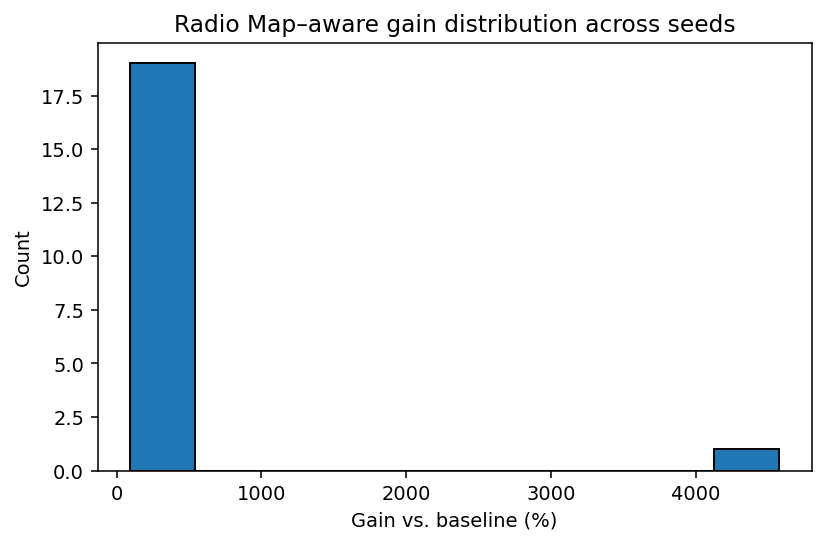
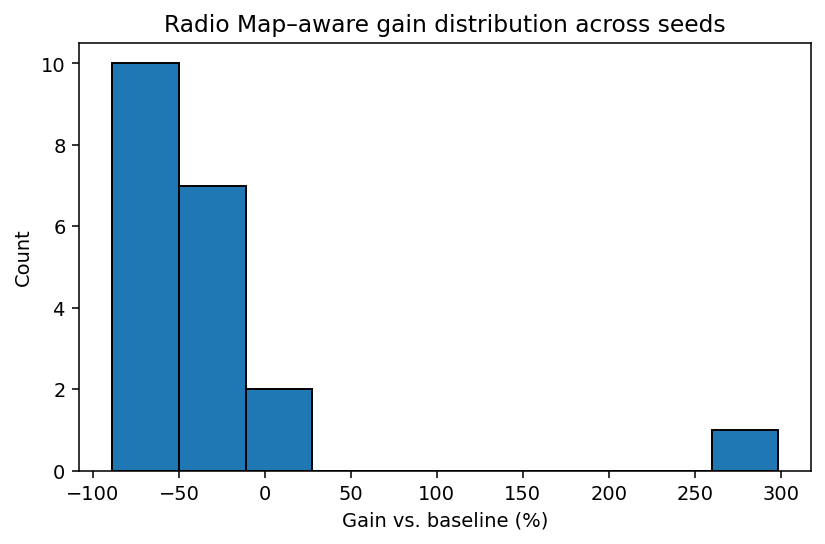
edit NTN config

diff --git a/code/config.py b/code/config.py
@@ -1,73 +1,90 @@
 """
 Central configuration for the NR-NTN simulation.
-Edit CONFIG below to explore different regimes.
+
+This preset aligns parameters closer to a real smartphone UL for NR/NTN using
+3GPP-inspired values:
+- UE power class 3 (P_max ≈ 23 dBm) per 38.101/38.104.
+- Fractional open‑loop power control (38.213): alpha≈0.8, P0 around −85 dBm.
+- SCS = 30 kHz in FR1 (38.211); PRB BW = 12×SCS = 360 kHz for kTB noise.
+- MCS mapping based on CQI table (approx. NR Table 1 / 64QAM).
+- Satellite geometry enabled (LEO ~600 km, S‑band ~2 GHz) with a reasonable
+  Rx array gain and modest lognormal shadowing.
 """
 
 CONFIG = {
-    "X": 60,              # map width
-    "Y": 60,              # map height
-    "Z": 64,              # number of PRBs/subbands
-    "N_UE": 40,           # number of UEs in footprint
-    "T": 200,             # number of TTIs
-    "K_interferers": 7,   # number of terrestrial interference lobes
-    # Noise configuration: either specify fixed "noise_dbm" OR define PRB bandwidth below
-    "noise_dbm": -121.45, # fallback if prb_bw_hz is not set (e.g., 180 kHz)
-    # Option A: Set PRB bandwidth directly for kTB noise
-    # "prb_bw_hz": 180000.0,  # e.g., 180 kHz (LTE 15 kHz SCS)
-    # Option B: Set SCS (kHz); PRB bandwidth = 12 * SCS
-    # "scs_khz": 30,          # 30 kHz => PRB 360 kHz
-    # Thermal noise temperature (K)
-    # "noise_temp_K": 290.0,
-    "P_tx_dbm": 23.0,     # UE max EIRP (dBm). If multiple PRBs, power may split across them.
-    "L_fs_db": 154.0,     # fixed free-space loss (dB) if geometry disabled
-    "G_rx_db": 32.0,      # satellite RX boresight gain (dBi)
-    "shadow_std_db": 5.0, # UE shadowing (dB, std. dev.)
-    "pf_beta": 0.1,       # PF averaging factor
-    # Calibration additions
-    "rx_nf_db": 5.0,      # receiver noise figure (dB)
-    "impl_loss_db": 2.0,  # implementation loss modeled as noise rise (dB)
-    "overhead_eff": 0.8,  # PHY/MAC overhead efficiency factor
-    "use_mcs": True,      # use MCS table instead of Shannon
-    "csi_mcs_table": "nr_64qam",  # use NR CQI Table 1-equivalent SE (same as legacy values)
-    "csi_olla_offset_db": 0.0,  # OLLA offset (dB), 0 keeps baseline
-    "csi_delay_ttis": 0,  # CSI report delay in TTIs (applies to metric only for now)
-    "power_split": True,  # per-UE PRB power splitting (P/k per PRB)
-    "max_prbs_per_ue": 4,  # optional cap per UE per TTI (int)
-    # Uplink open-loop power control (optional)
-    "enable_power_control": False,
-    "P_max_dbm": 23.0,
-    "pc_P0_dbm": -90.0,
-    "pc_alpha": 0.8,
-    "pc_M_ref": 1,
-    # Geometry + beam (optional realism)
-    "enable_geometry": False,
+    # Grid and traffic
+    "X": 60,                  # map width (matches radio_map grid)
+    "Y": 60,                  # map height
+    "Z": 64,                  # subbands in radio_map (not strict NR PRBs)
+    "N_UE": 50,               # active UEs in footprint (smartphone-like load)
+    "T": 200,                 # number of TTIs
+    "K_interferers": 7,       # used only when synthetic map is generated
+
+    # Noise: prefer SCS -> PRB BW for kTB; fallback to fixed noise_dbm
+    # 3GPP FR1 SCS: 15/30 kHz typical; keep 30 kHz for NTN robustness
+    "scs_khz": 30,            # PRB BW = 12 * 30 kHz = 360 kHz
+    "noise_dbm": -121.45,     # fallback if PRB BW not set
+    "noise_temp_K": 290.0,    # thermal noise temperature
+    # Alternatively you can set: "prb_bw_hz": 360000.0
+
+    # UE transmit power and link budget
+    "P_tx_dbm": 23.0,         # UE EIRP when PC disabled (dBm), class-3 maximum
+    # If geometry disabled, use fixed path loss + gain (kept for backward compat)
+    "L_fs_db": 154.0,         # ~600 km @ 2 GHz FSPL (dB)
+    "G_rx_db": 35.0,          # satellite RX boresight gain (dBi), modest phased array
+    "shadow_std_db": 7.0,     # lognormal shadowing std (dB), closer to 3GPP UMa
+    "rx_nf_db": 5.0,          # receiver noise figure (dB)
+    "impl_loss_db": 2.0,      # implementation loss as noise rise (dB)
+    "overhead_eff": 0.8,      # PHY/MAC overhead efficiency factor (0.75–0.85 typical)
+    "pf_beta": 0.1,           # PF averaging factor
+
+    # Scheduler realism
+    "use_mcs": True,          # use MCS table (vs Shannon)
+    "csi_mcs_table": "nr_64qam",   # NR Table 1 (64QAM-like) approximation
+    "csi_olla_offset_db": 0.0,      # OLLA offset (dB)
+    "csi_delay_ttis": 0,            # CSI report delay (TTIs)
+    "power_split": True,            # per-UE PRB power split
+    "max_prbs_per_ue": 12,          # cap per UE per TTI (keeps allocations phone-like)
+
+    # Uplink fractional open-loop power control (TS 38.213)
+    "enable_power_control": True,
+    "P_max_dbm": 23.0,        # UE P_cmax (class 3)
+    "pc_P0_dbm": -85.0,       # nominal P0 (combined) target
+    "pc_alpha": 0.8,          # fractional pathloss compensation
+    "pc_M_ref": 1,            # reference PRB count for open-loop term
+
+    # Geometry + beam (NR-NTN smartphone to LEO S-band)
+    "enable_geometry": True,  # enable per-UE FSPL and beam gain
     "sat_altitude_km": 600.0,
-    "carrier_freq_GHz": 2.0,
-    "beam_center_xy": None,   # default: map center if None
-    "beam_half_bw_deg": 4.0,
+    "carrier_freq_GHz": 2.0,  # S-band NTN (e.g., n256 vicinity)
+    "beam_center_xy": None,   # default: map center
+    "beam_half_bw_deg": 20.0,
     "beam_edge_drop_db": 3.0,
     "cell_size_km": 5.0,      # ground resolution per pixel
-    # Orbit dynamics (optional realism)
+
+    # Orbit dynamics (optional; keep static for baseline comparisons)
     "enable_orbit_dynamics": False,
     "tti_ms": 1.0,
     "sat_ground_speed_kms": 7.5,
-    "sat_heading_deg": 0.0,   # 0: +x direction in map grid
+    "sat_heading_deg": 0.0,   # 0: +x direction
     "doppler_residual_fraction": 0.0,  # fraction of Doppler left after precompensation (0..1)
+
     # Time-varying Radio Map (optional realism)
     "enable_time_varying": False,
     "rm_drift_px": (0, 0),
     "rm_flicker_db_std": 0.0,
+
     # Radio Map estimation imperfections for scheduler metric
     "radiomap_est_error_db": 0.0,  # std dev of map error in dB
     "radiomap_blur_sigma": 0.0,    # simple box blur radius (pixels)
-    # External Radio Map (optional): if provided, overrides X/Y/Z
-    "radio_map_mat_path": "radio_map/Data_moderate.mat",     # use moderate-interference Data
-    "radio_map_mat_var": "X_true",                 # will auto-fallback to first data var if absent
-    "radio_map_units": "mW",                        # Data.mat values are mW (per PRB external interference)
-    # SCS / PRB bandwidth for noise
-    "scs_khz": 30,  # PRB BW=12*30kHz=360 kHz used in kTB noise
-    # Residual impairments (frequency offset for ICI penalty)
-    "residual_freq_hz": 0.0,
-    "seed": 1             # random seed
-}
 
+    # External Radio Map (overrides X/Y/Z if provided)
+    "radio_map_mat_path": "radio_map/Data_moderate.mat",  # moderate-interference dataset
+    "radio_map_mat_var": "X_true",                         # variable in .mat
+    "radio_map_units": "mW",                               # dataset values are mW per PRB
+
+    # Residual impairments (frequency offset for ICI penalty)
+    "residual_freq_hz": 200.0,  # small residual CFO (~0.1 ppm @ 2 GHz)
+
+    "seed": 1                   # random seed
+}
